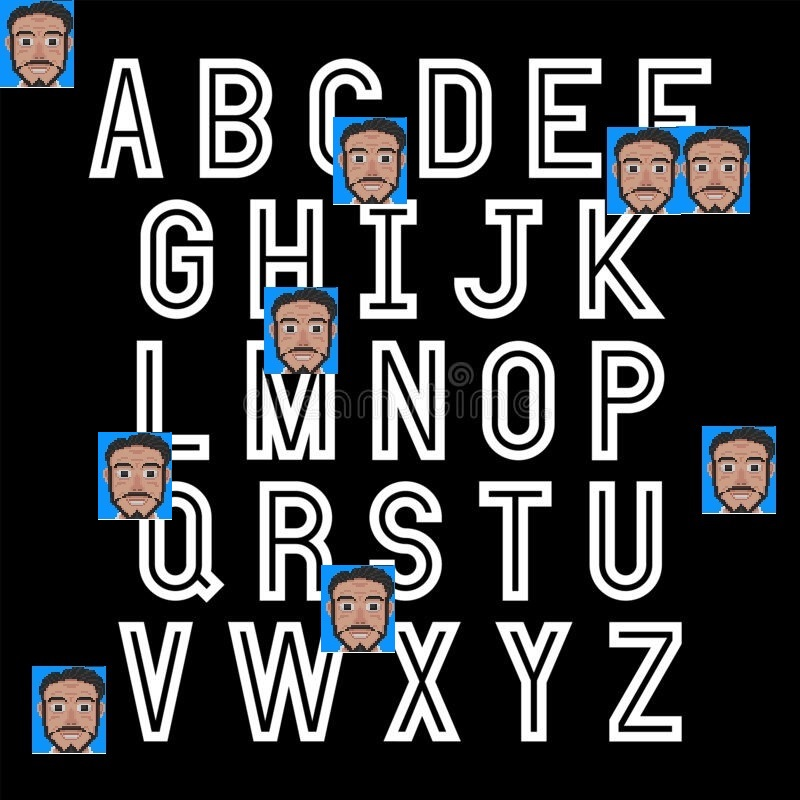
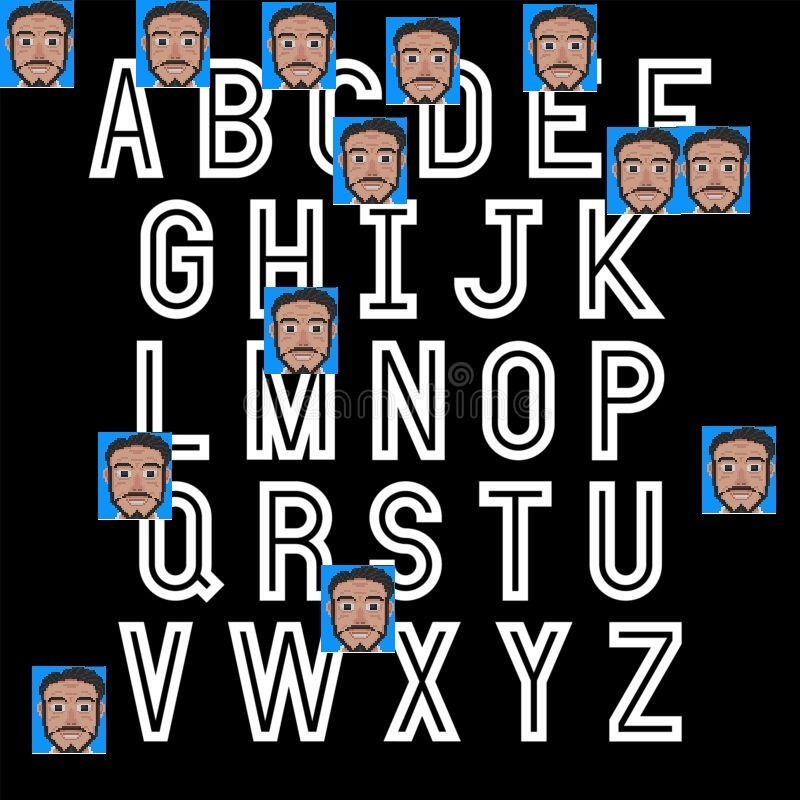
Added Will Smith

diff --git a/apply_kernel.py b/apply_kernel.py
@@ -164,21 +164,30 @@ def apply_kernel_matchPattern(img,heatmap,pattern,original):
     padw=0
     if h_kernel%2!=0: padh=1
     if w_kernel%2!=0: padw=1
+    min = 99
     
-    for i in range(0+h_kernel//2,(h-h_kernel//2)-2):
-        for i1 in range(0+w_kernel//2,(w-w_kernel//2)-2):
+    for i in range(0+h_kernel//2,(h-h_kernel//2)):
+        for i1 in range(0+w_kernel//2,(w-w_kernel//2)):
             sum_roi = img[i-h_kernel//2:i+h_kernel//2+padh,i1-w_kernel//2:i1+w_kernel//2+padw] - kernel
             sum_roi = np.average(np.absolute(sum_roi))
-            if sum_roi<115:
+            # cv2.imshow("Img",img[i-h_kernel//2:i+h_kernel//2+padh,i1-w_kernel//2:i1+w_kernel//2+padw] )
+            # cv2.waitKey()
+            # print(sum_roi)
+            if sum_roi<min:
+                min=sum_roi
+
+            
+            if sum_roi<70:
                 top_left = (i1-w_kernel//2,i-h_kernel//2)
                 bot_right = (i1+w_kernel//2,i+h_kernel//2)
+                
                 sum_roi = 0 
                 cv2.rectangle(original,top_left,bot_right,rect_color,thickness=1)
                
             else: sum_roi = 255
-
+        
             heatmap[i,i1] = sum_roi
-    
+    print(min)
     return original, heatmap
        
 def apply_kernel_matchPattern_rgb(img,heatmap,pattern,original):
@@ -191,9 +200,10 @@ def apply_kernel_matchPattern_rgb(img,heatmap,pattern,original):
     padw=0
     if h_kernel%2!=0: padh=1
     if w_kernel%2!=0: padw=1
+    min = 99
     
-    for i in range(0+h_kernel//2,(h-h_kernel//2)-2):
-        for i1 in range(0+w_kernel//2,(w-w_kernel//2)-2):
+    for i in range(0+h_kernel//2,(h-h_kernel//2)):
+        for i1 in range(0+w_kernel//2,(w-w_kernel//2)):
             sum_roi_r = img[i-h_kernel//2:i+h_kernel//2+padh,i1-w_kernel//2:i1+w_kernel//2+padw,0] - kernel[:,:,0]
             sum_roi_b = img[i-h_kernel//2:i+h_kernel//2+padh,i1-w_kernel//2:i1+w_kernel//2+padw,1] - kernel[:,:,1]
             sum_roi_g = img[i-h_kernel//2:i+h_kernel//2+padh,i1-w_kernel//2:i1+w_kernel//2+padw,2] - kernel[:,:,2]
@@ -201,7 +211,14 @@ def apply_kernel_matchPattern_rgb(img,heatmap,pattern,original):
             sum_roi_g = np.average(np.absolute(sum_roi_g))
             sum_roi_b = np.average(np.absolute(sum_roi_b))
             sum_roi = np.average([sum_roi_b,sum_roi_g,sum_roi_r])
-            if sum_roi<115:
+            #cv2.imshow("Img",img[i-h_kernel//2:i+h_kernel//2+padh,i1-w_kernel//2:i1+w_kernel//2+padw,0] )
+            #cv2.waitKey()
+            #print(sum_roi)
+            if sum_roi<min:
+                min=sum_roi
+            
+            if sum_roi==0:
+                
                 top_left = (i1-w_kernel//2,i-h_kernel//2)
                 bot_right = (i1+w_kernel//2,i+h_kernel//2)
                 sum_roi = 0 
@@ -210,6 +227,6 @@ def apply_kernel_matchPattern_rgb(img,heatmap,pattern,original):
             else: sum_roi = 255
 
             heatmap[i,i1] = sum_roi
-        
+    print(min)
     return original, heatmap
        

diff --git a/filter.py b/filter.py
@@ -108,10 +108,12 @@ def matchPattern(img, pattern, ret_heatmap=False):
 
     if len(img.shape)==3:
         new_img = np.zeros_like(img[:,:,0])
-        new_img, heatmap = apply_kernel_matchPattern_rgb(img,new_img,pattern,img)
+        img_copy = np.array(img)
+        new_img, heatmap = apply_kernel_matchPattern_rgb(img,new_img,pattern,img_copy)
     else: 
         new_img=np.zeros_like(img)
-        new_img, heatmap = apply_kernel_matchPattern(img,new_img,pattern,img)
+        img_copy = np.array(img)
+        new_img, heatmap = apply_kernel_matchPattern(img,new_img,pattern,img_copy)
 
     heatmap = heatmap.astype(np.int16)
     new_img = new_img.astype(np.int16)

diff --git a/main.py b/main.py
@@ -3,15 +3,18 @@ import filter
 
 
 img_folder = "images\\"
-img_file = "face_female.jpg"
-pattern = "images\\face_pattern.jpg"
+img_file = "will_test.png"
+pattern = "images\\will.png"
 img_save = "worked_on.jpg"
 img_path = img_folder+img_file
 img_path_save = img_folder+img_save
 
-img = cv2.imread(img_path)
-img = filter.dilate(img,7)
 
+pattern = cv2.imread(pattern)
+#pattern = cv2.cvtColor(pattern,cv2.COLOR_BGR2GRAY)
+img = cv2.imread(img_path)
+#img = cv2.cvtColor(img,cv2.COLOR_BGR2GRAY)
+img = filter.matchPattern(img,pattern)
 cv2.imshow("img",img)
 cv2.imwrite(img_path_save,img)
 
